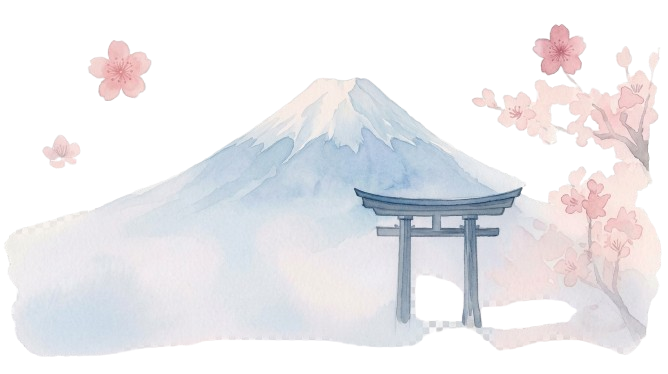
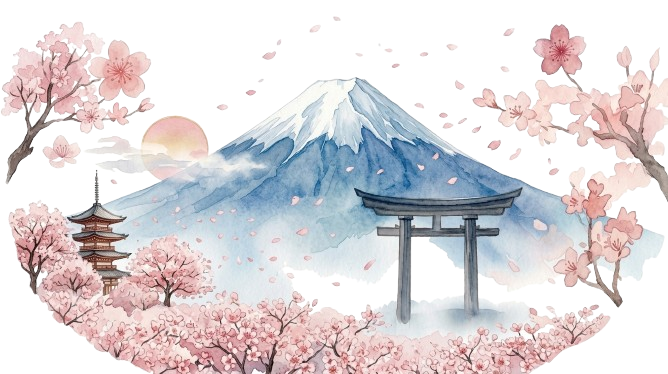
Add dark/light mode support for images and remove 'built with Flutter' from about screen
- Add theme-aware image switching for:
  - Home screen notification icon (cat)
  - Splash screen logos (main logo, wordmark)
  - About screen brand panel logo and background
  - Loading screen mascot cat
- Remove 'built with Flutter' from about screen description in EN, FR, JA
- Add missing loading stage translations (loadingStageImagePreprocessing, loadingStageRunningOCR) to all ARB files
- Add new dark/light mode asset variants

diff --git a/lib/l10n/app_localizations.dart b/lib/l10n/app_localizations.dart
@@ -448,18 +448,6 @@ abstract class AppLocalizations {
   /// **'No Japanese text detected.'**
   String get imageScreenNoJapaneseDetected;
 
-  /// No description provided for @loadingStageImagePreprocessing.
-  ///
-  /// In en, this message translates to:
-  /// **'Image preprocessing'**
-  String get loadingStageImagePreprocessing;
-
-  /// No description provided for @loadingStageRunningOCR.
-  ///
-  /// In en, this message translates to:
-  /// **'Running OCR'**
-  String get loadingStageRunningOCR;
-
   /// No description provided for @splashScreenLoading.
   ///
   /// In en, this message translates to:
@@ -499,7 +487,7 @@ abstract class AppLocalizations {
   /// No description provided for @aboutScreenDescription.
   ///
   /// In en, this message translates to:
-  /// **'An offline Japanese OCR and dictionary\napp built with Flutter.'**
+  /// **'An offline Japanese OCR and dictionary\napp.'**
   String get aboutScreenDescription;
 
   /// No description provided for @aboutScreenLicenses.
@@ -771,6 +759,18 @@ abstract class AppLocalizations {
   /// In en, this message translates to:
   /// **'Running OCR'**
   String get imageScreenProcessingSubtitle;
+
+  /// No description provided for @loadingStageImagePreprocessing.
+  ///
+  /// In en, this message translates to:
+  /// **'Preparing image...'**
+  String get loadingStageImagePreprocessing;
+
+  /// No description provided for @loadingStageRunningOCR.
+  ///
+  /// In en, this message translates to:
+  /// **'Running OCR...'**
+  String get loadingStageRunningOCR;
 
   /// No description provided for @ankiNotificationAddedTitle.
   ///

diff --git a/lib/screens/about_screen.dart b/lib/screens/about_screen.dart
@@ -85,7 +85,9 @@ class AboutScreen extends StatelessWidget {
                         child: ClipRRect(
                           borderRadius: BorderRadius.circular(38),
                           child: Image.asset(
-                            'assets/02_brand_logo/logo_about.png',
+                            Theme.of(context).brightness == Brightness.dark
+                                ? 'assets/02_brand_logo/logo_brand_panel_dark_mode.png'
+                                : 'assets/02_brand_logo/logo_brand_panel_light_mode.png',
                             width: logoSize,
                             height: logoSize,
                             fit: BoxFit.cover,
@@ -131,7 +133,9 @@ class AboutScreen extends StatelessWidget {
                       const SizedBox(height: 12),
                       Center(
                         child: Image.asset(
-                          'assets/04_scenery_backgrounds/about-background.png',
+                          Theme.of(context).brightness == Brightness.dark
+                              ? 'assets/04_scenery_backgrounds/about_background_dark.png'
+                              : 'assets/04_scenery_backgrounds/about_background_light.png',
                           width: isLandscape
                               ? constraints.maxWidth
                               : constraints.maxWidth * 0.9,

diff --git a/lib/l10n/app_localizations_ja.dart b/lib/l10n/app_localizations_ja.dart
@@ -203,7 +203,7 @@ class AppLocalizationsJa extends AppLocalizations {
   String get aboutScreenSubtitle => '日本語をすぐに読む';
 
   @override
-  String get aboutScreenDescription => 'オフラインの日本語OCRと辞書アプリ\nFlutterで作成';
+  String get aboutScreenDescription => 'オフラインの日本語OCRと辞書アプリ';
 
   @override
   String get aboutScreenLicenses => 'ライセンスと帰属';
@@ -352,10 +352,12 @@ class AppLocalizationsJa extends AppLocalizations {
 
   @override
   String get imageScreenProcessingSubtitle => 'OCRを実行中';
+
   @override
-  String get loadingStageImagePreprocessing => '画像前処理';
+  String get loadingStageImagePreprocessing => '画像を準備中...';
+
   @override
-  String get loadingStageRunningOCR => 'OCR実行中';
+  String get loadingStageRunningOCR => 'OCRを実行中...';
 
   @override
   String get ankiNotificationAddedTitle => 'AnkiDroidに追加しました';

diff --git a/lib/screens/splash_screen.dart b/lib/screens/splash_screen.dart
@@ -123,14 +123,18 @@ class _SplashScreenState extends State<SplashScreen> {
           mainAxisSize: MainAxisSize.min,
           children: [
             Image.asset(
-              'assets/02_brand_logo/logo_splash.png',
+              Theme.of(context).brightness == Brightness.dark
+                  ? 'assets/02_brand_logo/logo_splash_dark_mode.png'
+                  : 'assets/02_brand_logo/logo_splash_light_mode.png',
               width: 200,
               height: 150,
               fit: BoxFit.contain,
               semanticLabel: 'YomiNow logo',
             ),
             Image.asset(
-              'assets/02_brand_logo/wordmark_splash.png',
+              Theme.of(context).brightness == Brightness.dark
+                  ? 'assets/02_brand_logo/YomiNow_dark_mode.png'
+                  : 'assets/02_brand_logo/YomiNow_light_mode.png',
               width: 200,
               height: 84,
               fit: BoxFit.contain,

diff --git a/lib/l10n/app_localizations_fr.dart b/lib/l10n/app_localizations_fr.dart
@@ -213,7 +213,7 @@ class AppLocalizationsFr extends AppLocalizations {
 
   @override
   String get aboutScreenDescription =>
-      'Une application OCR japonaise hors ligne et dictionnaire\nconstruite avec Flutter.';
+      'Une application OCR japonaise hors ligne et dictionnaire.';
 
   @override
   String get aboutScreenLicenses => 'Licences et attribution';
@@ -366,10 +366,12 @@ class AppLocalizationsFr extends AppLocalizations {
 
   @override
   String get imageScreenProcessingSubtitle => 'Exécution de l\'OCR';
+
   @override
-  String get loadingStageImagePreprocessing => 'Prétraitement d\'image';
+  String get loadingStageImagePreprocessing => 'Préparation de l\'image...';
+
   @override
-  String get loadingStageRunningOCR => 'Exécution de l\'OCR';
+  String get loadingStageRunningOCR => 'Exécution de l\'OCR...';
 
   @override
   String get ankiNotificationAddedTitle => 'Ajouté à AnkiDroid';

diff --git a/lib/l10n/app_localizations_en.dart b/lib/l10n/app_localizations_en.dart
@@ -211,7 +211,7 @@ class AppLocalizationsEn extends AppLocalizations {
 
   @override
   String get aboutScreenDescription =>
-      'An offline Japanese OCR and dictionary\napp built with Flutter.';
+      'An offline Japanese OCR and dictionary\napp.';
 
   @override
   String get aboutScreenLicenses => 'Licenses & Attribution';
@@ -364,10 +364,12 @@ class AppLocalizationsEn extends AppLocalizations {
 
   @override
   String get imageScreenProcessingSubtitle => 'Running OCR';
+
   @override
-  String get loadingStageImagePreprocessing => 'Image preprocessing';
+  String get loadingStageImagePreprocessing => 'Preparing image...';
+
   @override
-  String get loadingStageRunningOCR => 'Running OCR';
+  String get loadingStageRunningOCR => 'Running OCR...';
 
   @override
   String get ankiNotificationAddedTitle => 'Added to AnkiDroid';

diff --git a/lib/screens/home_screen.dart b/lib/screens/home_screen.dart
@@ -475,7 +475,9 @@ PreferredSizeWidget _buildHeaderBar(BuildContext context) {
                     backgroundColor: YomiNowPalette.coral,
                     textColor: YomiNowPalette.ink,
                     child: Image.asset(
-                      'assets/03_characters_mascot/cat_home_face_notification.png',
+                      Theme.of(context).brightness == Brightness.dark
+                          ? 'assets/03_characters_mascot/cat_notification_dark_mode_icon.png'
+                          : 'assets/03_characters_mascot/cat_notification_light_mode_icon.png',
                       width: 32,
                       fit: BoxFit.contain,
                     ),

diff --git a/lib/screens/loading_screen.dart b/lib/screens/loading_screen.dart
@@ -164,7 +164,9 @@ class _LoadingScreenState extends State<LoadingScreen>
           ),
           child: Center(
             child: Image.asset(
-              'assets/03_characters_mascot/cat_loading.png',
+              Theme.of(context).brightness == Brightness.dark
+                  ? 'assets/03_characters_mascot/cat_loading_dark_mode.png'
+                  : 'assets/03_characters_mascot/cat_loading_light_mode.png',
               width: size * 0.43,
               height: size * 0.43,
               fit: BoxFit.contain,
